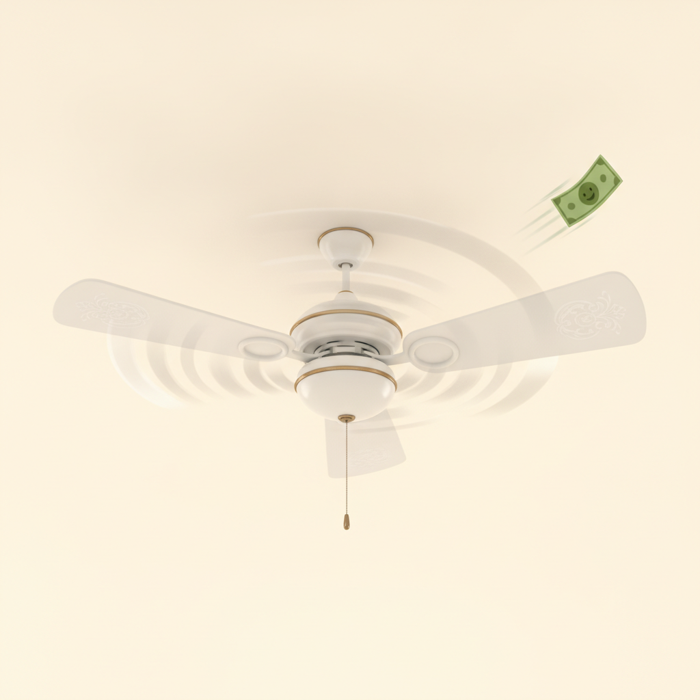
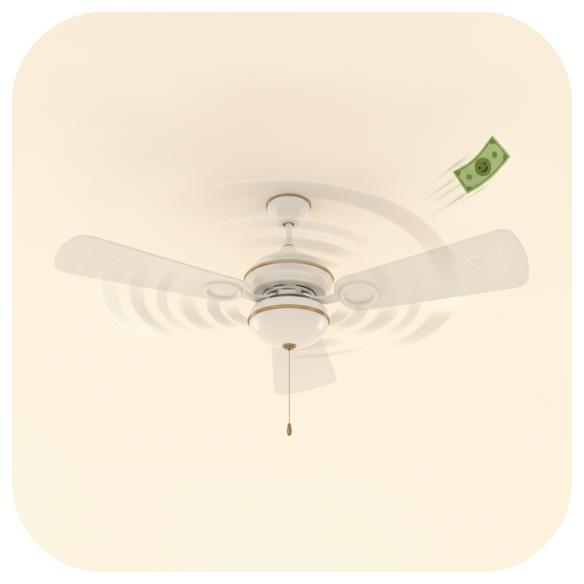
Kanjoos polish: cutout/rounded sticker cards, clear AC, BP + Follow in safe zones, hold pose + end card
Claude-Session: https://claude.ai/code/session_01Fb8pktKVakvJxEH3nY9tRg

diff --git a/kanjoos/page.html b/kanjoos/page.html
@@ -36,6 +36,7 @@ const proj=(p)=>{ const s=p.clone().project(cam); return [(s.x+1)/2*W,(1-s.y)/2*
 window.frame=(t,amp)=>{
   const F=0.3; let ws={};
   for(const s of T){ let w=0; if(t>=s.start-F&&t<=s.end+F){ w=Math.min(1,(t-(s.start-F))/F,(s.end+F-t)/F);} if(w>0) ws[s.anim]=Math.max(ws[s.anim]||0,w); }
+  const LS=T[T.length-1]; if(t>LS.end){ ws={}; ws[LS.anim]=1; }
   let tot=Object.values(ws).reduce((a,b)=>a+b,0); if(tot<0.001){ ws={Idle:1}; tot=1; }
   let yw=0; for(const n in acts){ const a=act(n); const w=(ws[n]||0)/tot; a.setEffectiveWeight(w); a.time=t%acts[n].duration; yw+=w*yawOff[n]; }
   model.rotation.y=-yw+(cfg.faceYaw||0); mixer.update(0); model.updateMatrixWorld(true);
@@ -62,14 +63,13 @@ window.frame=(t,amp)=>{
   // BP fx: red pulsing vignette + "BP ↑" meter
   if(L&&L.fx==='bp'){ const p=0.5+0.5*Math.sin(lt*14), a=Math.min(1,lt/0.2)*Math.max(0,Math.min(1,(ld-lt)/0.4));
     const gr=cx.createRadialGradient(W/2,H/2,H*0.25,W/2,H/2,H*0.75); gr.addColorStop(0,'rgba(255,0,0,0)'); gr.addColorStop(1,`rgba(220,0,0,${0.45*a*(0.6+0.4*p)})`); cx.fillStyle=gr; cx.fillRect(0,0,W,H);
-    cx.save(); cx.globalAlpha=a; cx.translate(W-170,560); const s=back(lt/0.35); cx.scale(s,s); cx.fillStyle='#fff'; cx.beginPath(); cx.roundRect(-110,-70,220,140,26); cx.fill();
+    cx.save(); cx.globalAlpha=a; cx.translate(170,300); const s=back(lt/0.35); cx.scale(s,s); cx.fillStyle='#fff'; cx.beginPath(); cx.roundRect(-110,-70,220,140,26); cx.fill();
     cx.fillStyle='#d81b1b'; cx.font='900 64px Arial'; cx.textAlign='center'; cx.fillText('BP',0,0); const lv=Math.min(1,lt/1.2); cx.fillRect(-80,22,160*lv,22); cx.strokeStyle='#d81b1b'; cx.lineWidth=4; cx.strokeRect(-80,22,160,22); cx.restore(); }
   // insert card (pop in, tilt, hold, pop out)
   for(const s of T){ if(!s.ins||!imgs[s.ins.img]) continue; const t0=s.start+(s.end-s.start)*s.ins.at, d=1.7, k=t-t0; if(k<0||k>d) continue;
     const sIn=back(k/0.3), sOut=k>d-0.25?Math.max(0,(d-k)/0.25):1, sc=sIn*sOut; const im=imgs[s.ins.img], sz=540;
-    cx.save(); cx.translate(W-200,280); cx.rotate(0.07+0.02*Math.sin(k*6)); cx.scale(sc,sc); cx.shadowColor='rgba(0,0,0,0.35)'; cx.shadowBlur=40; cx.shadowOffsetY=16;
-    cx.fillStyle='#fff'; cx.beginPath(); cx.roundRect(-sz/2-16,-sz/2-16,sz+32,sz+32,34); cx.fill(); cx.shadowColor='transparent';
-    cx.beginPath(); cx.roundRect(-sz/2,-sz/2,sz,sz,22); cx.clip(); cx.drawImage(im,-sz/2,-sz/2,sz,sz); cx.restore(); }
+    cx.save(); cx.translate(W-215,330+Math.sin(k*5)*6); cx.rotate(0.06+0.03*Math.sin(k*6)); cx.scale(sc,sc); cx.shadowColor='rgba(0,0,0,0.38)'; cx.shadowBlur=36; cx.shadowOffsetY=18;
+    cx.drawImage(im,-sz/2,-sz/2,sz,sz); cx.restore(); }
   // coins burst from the potli (around hips, front-left)
   if(L&&L.fx==='coins'&&hips){ hips.getWorldPosition(v); const [px,py]=proj(v.clone().add(new THREE.Vector3(0.2,-0.02,0.18)));
     for(let i=0;i<9;i++){ const k=lt-0.25*ld-i*0.07; if(k<0||k>1.3) continue; const ang=-Math.PI/2+(i-4)*0.32, sp=520;
@@ -79,12 +79,16 @@ window.frame=(t,amp)=>{
   if(L&&t<=L.end+0.35){ const words=(L.cap||'').split(' '); const prog=Math.max(0,Math.min(1,(t-L.start)/Math.max(0.5,L.end-L.start-0.15)));
     const nShow=Math.max(1,Math.ceil(prog*words.length)); drawCap(words.slice(0,nShow),(t-L.start)*words.length/Math.max(0.5,L.end-L.start)-(nShow-1)); }
   // CTA
-  if(L&&L.cta!=null){ const t0=L.start+(L.end-L.start)*L.cta, k=t-t0; if(k>0){ const s=back(k/0.35)*(1+0.05*Math.sin(k*8)); cx.save(); cx.translate(W/2,1130); cx.scale(s,s);
+  if(L&&L.cta!=null){ const t0=L.start+(L.end-L.start)*L.cta, k=t-t0; if(k>0){ const s=back(k/0.35)*(1+0.05*Math.sin(k*8)); cx.save(); cx.translate(W/2,320); cx.scale(s,s);
     const g=cx.createLinearGradient(-260,0,260,0); g.addColorStop(0,'#ff3d6e'); g.addColorStop(1,'#ff8a00'); cx.fillStyle=g; cx.shadowColor='rgba(0,0,0,0.3)'; cx.shadowBlur=24; cx.beginPath(); cx.roundRect(-260,-62,520,124,62); cx.fill(); cx.shadowColor='transparent';
     cx.fillStyle='#fff'; cx.font='900 66px Arial'; cx.textAlign='center'; cx.fillText('FOLLOW KARO',0,23); cx.restore(); } }
   // title
   if(cfg.title&&t<cfg.titleDur){ const a=Math.min(1,t/0.25,(cfg.titleDur-t)/0.3); cx.save(); cx.globalAlpha=a; cx.translate(W/2,150); const s=back(t/0.35); cx.scale(s,s); cx.font='900 92px Arial'; cx.textAlign='center';
     const tw=cx.measureText(cfg.title).width+80; cx.fillStyle='#ffd400'; cx.beginPath(); cx.roundRect(-tw/2,-90,tw,124,28); cx.fill(); cx.fillStyle='#1a1a1a'; cx.fillText(cfg.title,0,4); cx.restore(); }
+  if(cfg.endAt&&t>=cfg.endAt){ const k=t-cfg.endAt, a=Math.min(1,k/0.25); cx.save(); cx.globalAlpha=a*0.82; cx.fillStyle='#fffaf0'; cx.fillRect(0,0,W,H); cx.globalAlpha=a;
+    const s=back(k/0.4); cx.translate(W/2,H/2-80); cx.scale(s,s); cx.textAlign='center'; cx.font='900 110px Arial'; cx.fillStyle='#1a1a1a'; cx.fillText('KANJOOS',0,-40); cx.fillStyle='#e0a800'; cx.fillText('UNCLE',0,80);
+    const g=cx.createLinearGradient(-280,0,280,0); g.addColorStop(0,'#ff3d6e'); g.addColorStop(1,'#ff8a00'); cx.fillStyle=g; cx.beginPath(); cx.roundRect(-280,150,560,120,60); cx.fill();
+    cx.fillStyle='#fff'; cx.font='900 60px Arial'; cx.fillText('FOLLOW KARO',0,232); cx.fillStyle='#555'; cx.font='700 44px Arial'; cx.fillText('Roz nayi kanjoosi 😄'.replace(' 😄',''),0,350); cx.restore(); }
   return out.toDataURL('image/jpeg',0.9);
 };
 function drawCap(ws,pop){ cx.save(); cx.font='900 70px Arial'; cx.textAlign='left'; const lines=[[]]; let lw=0; const sp=cx.measureText(' ').width;

diff --git a/kanjoos/render.js b/kanjoos/render.js
@@ -5,7 +5,7 @@ const SFX = require(path.join(__dirname, '..', 'sfx', 'sfx.js'));
 const [, BG, OUT] = process.argv.slice(2); const FPS = 30, SR = 44100;
 const S = JSON.parse(fs.readFileSync(path.join(__dirname, 'script.json')));
 const dur = f => +cp.execSync(`ffprobe -v error -show_entries format=duration -of csv=p=0 "${f}"`).toString();
-const LEAD = 0.3, TAIL = 0.8;
+const LEAD = 0.3, TAIL = 1.6;
 const segs = JSON.parse(fs.readFileSync(process.env.SEGS));
 const tl = segs.map((g, i) => ({ ...S[i], start: g[0] + LEAD, end: g[1] + LEAD, cap: S[i].cap || S[i].text }));
 const total = dur(process.env.FULL) + LEAD + TAIL, N = Math.ceil(total * FPS);
@@ -28,6 +28,7 @@ function buildAudio() {
   for (let i = 0; i < n; i++) { const t = i / SR; mix[i] *= Math.min(1, t / 0.4, (total - t) / 0.6); mix[i] += voice[i]; }
   tl.forEach((L, li) => (L.sfx || []).forEach((x, k) => SFX.place(mix, SR, L.start + (L.end - L.start) * x.at, x.cat, x.n ?? (li + k), x.g ?? 0.3, x.cat === 'whoosh' ? 0.25 : 0)));
   SFX.place(mix, SR, 0.05, 'whoosh', 0, 0.25, 0); // title
+  SFX.place(mix, SR, total - 1.3, 'pop', 1, 0.35, 0); // end card
   let pk = 0; for (let i = 0; i < n; i++) pk = Math.max(pk, Math.abs(mix[i])); const buf = Buffer.alloc(n * 2), g = pk > 0.98 ? 0.98 / pk : 1;
   for (let i = 0; i < n; i++) buf.writeInt16LE(Math.round(Math.max(-1, Math.min(1, mix[i] * g)) * 32767), i * 2);
   fs.writeFileSync('mix.raw', buf); cp.execSync(`ffmpeg -v error -y -f s16le -ar ${SR} -ac 1 -i mix.raw -af loudnorm=I=-14:TP=-1.5 -ar ${SR} voice.wav`); fs.unlinkSync('mix.raw');
@@ -41,7 +42,7 @@ if (process.env.MODE === 'audio') { console.log('frames total', N); process.exit
   const pg = await br.newPage({ viewport: { width: 1080, height: 1920 } }); pg.on('pageerror', e => console.log('ERR', e.message));
   await pg.goto('http://localhost:8765/page.html'); await pg.waitForFunction('window.ready');
   const ins = {}; const ID = process.env.INS_DIR || 'ins'; for (const k of ['bill', 'fan', 'ac']) if (fs.existsSync(path.join(__dirname, ID, k + '.png'))) ins[k] = `/${ID}/${k}.png`;
-  await pg.evaluate(c => setup(c), { glb: '/' + (process.env.GLB || 'ku.glb'), bg: '/' + BG, timeline: tl, inserts: ins, faceYaw: 0.25, mouth: [0, 0.065, 0.12], mscale: 560, title: process.env.TITLE || 'KANJOOS UNCLE', titleDur: 2.2 });
+  await pg.evaluate(c => setup(c), { glb: '/' + (process.env.GLB || 'ku.glb'), bg: '/' + BG, timeline: tl, inserts: ins, faceYaw: 0.25, mouth: [0, 0.065, 0.12], mscale: 560, title: process.env.TITLE || 'KANJOOS UNCLE', titleDur: 2.2, endAt: total - 1.3 });
   const F0 = +(process.env.F0 || 0), F1 = Math.min(N, process.env.F1 ? +process.env.F1 : N), CH = !!process.env.F1;
   const ff = cp.spawn('ffmpeg', ['-loglevel', 'error', '-y', '-f', 'image2pipe', '-framerate', String(FPS), '-i', '-', ...(CH ? [] : ['-i', 'voice.wav']), '-c:v', 'libx264', '-preset', 'medium', '-crf', '20', '-pix_fmt', 'yuv420p', ...(CH ? ['-an'] : ['-c:a', 'aac', '-b:a', '160k', '-shortest']), '-movflags', '+faststart', OUT], { stdio: ['pipe', 'inherit', 'inherit'] });
   const t0 = Date.now();
